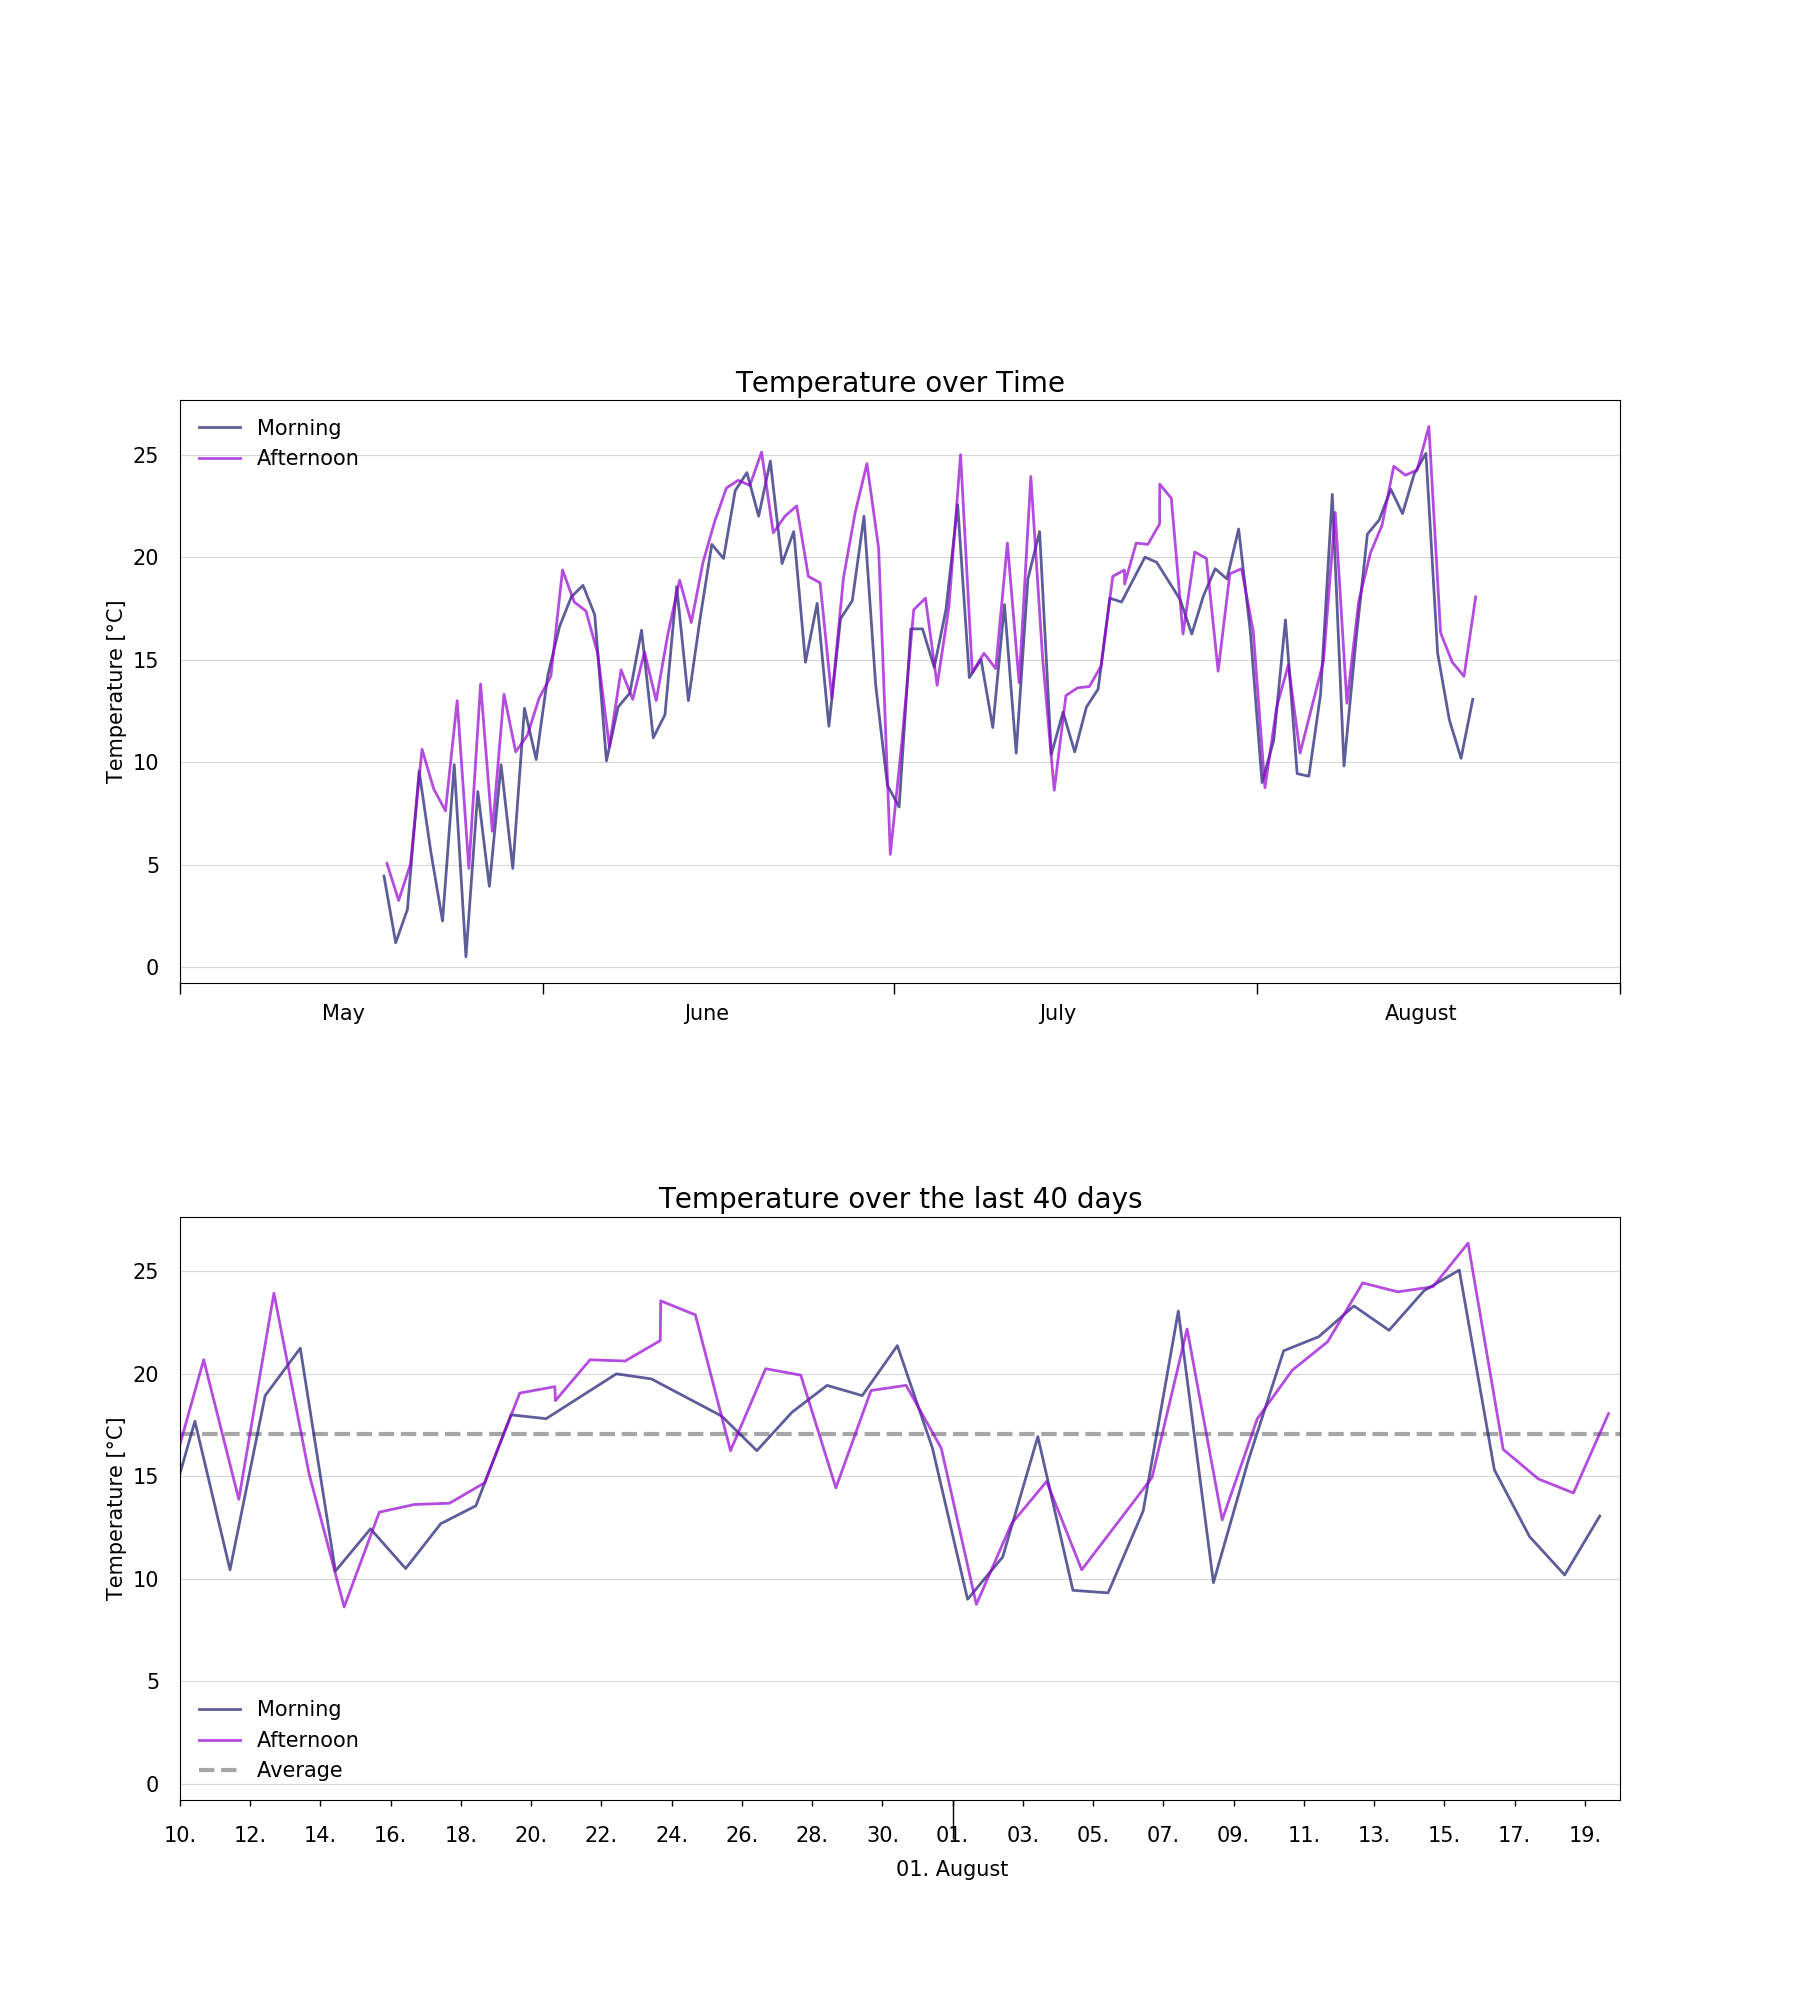
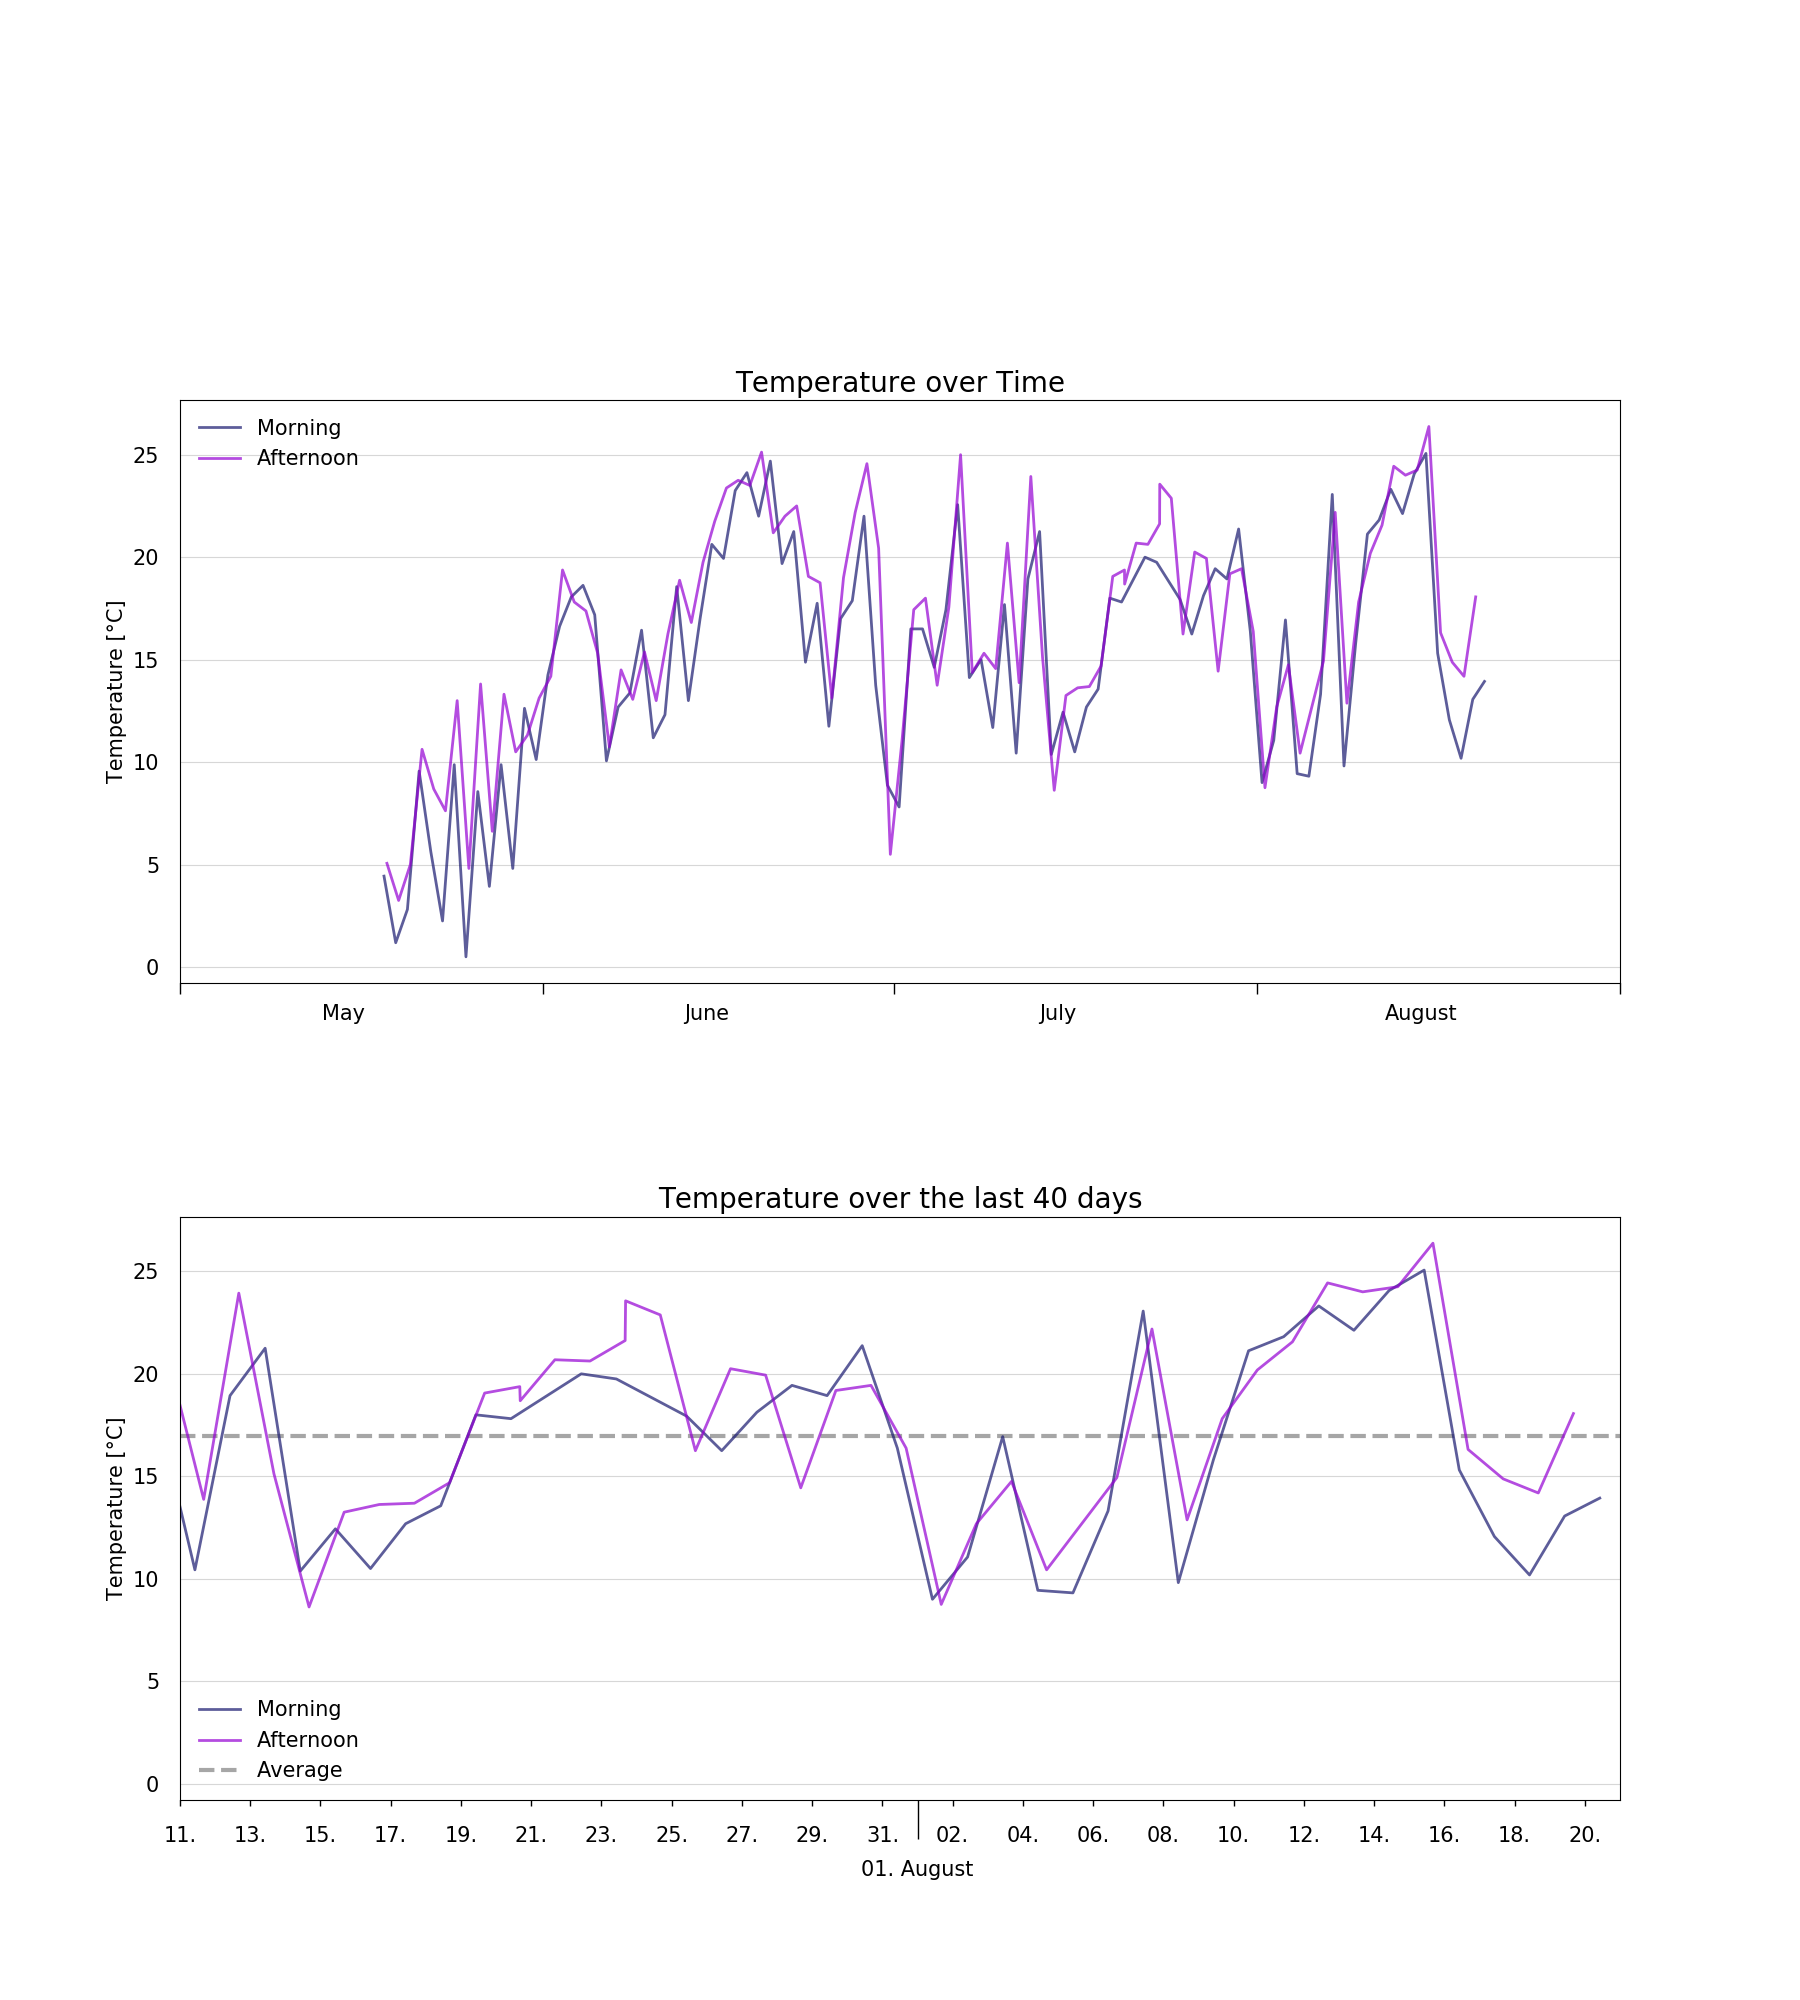
I'm a bot beep boop

diff --git a/resources/huette.md b/resources/huette.md
@@ -6,13 +6,13 @@ image: '/assets/img/'
 description: 'Live image from the Austrian alps'
 twitter_text: ' '
 ---
-## Latest image from 19 August 2021 at 16:11
+## Latest image from 20 August 2021 at 10:11
 <div class="huette">
   <div class="huette-image">
     <img src="{{ "/assets/img/huette.jpg" | prepend: site.baseurl }}">
   </div>
   <div class="huette-text">
-        <h2>Current Temperature: 18.062°C</h2>
+        <h2>Current Temperature: 13.937°C</h2>
         <p>A solar powered raspberry pi left alone in the wild is sending daily images and temperature data to this website. It should give you an impression about the current weather in the "Brixental".</p>
 
   </div>

diff --git a/rpi-script/huette.md b/rpi-script/huette.md
@@ -6,13 +6,13 @@ image: '/assets/img/'
 description: 'Live image from the Austrian alps'
 twitter_text: ' '
 ---
-## Latest image from 19 August 2021 at 16:11
+## Latest image from 20 August 2021 at 10:11
 <div class="huette">
   <div class="huette-image">
     <img src="{{ "/assets/img/huette.jpg" | prepend: site.baseurl }}">
   </div>
   <div class="huette-text">
-        <h2>Current Temperature: 18.062°C</h2>
+        <h2>Current Temperature: 13.937°C</h2>
         <p>A solar powered raspberry pi left alone in the wild is sending daily images and temperature data to this website. It should give you an impression about the current weather in the "Brixental".</p>
 
   </div>
